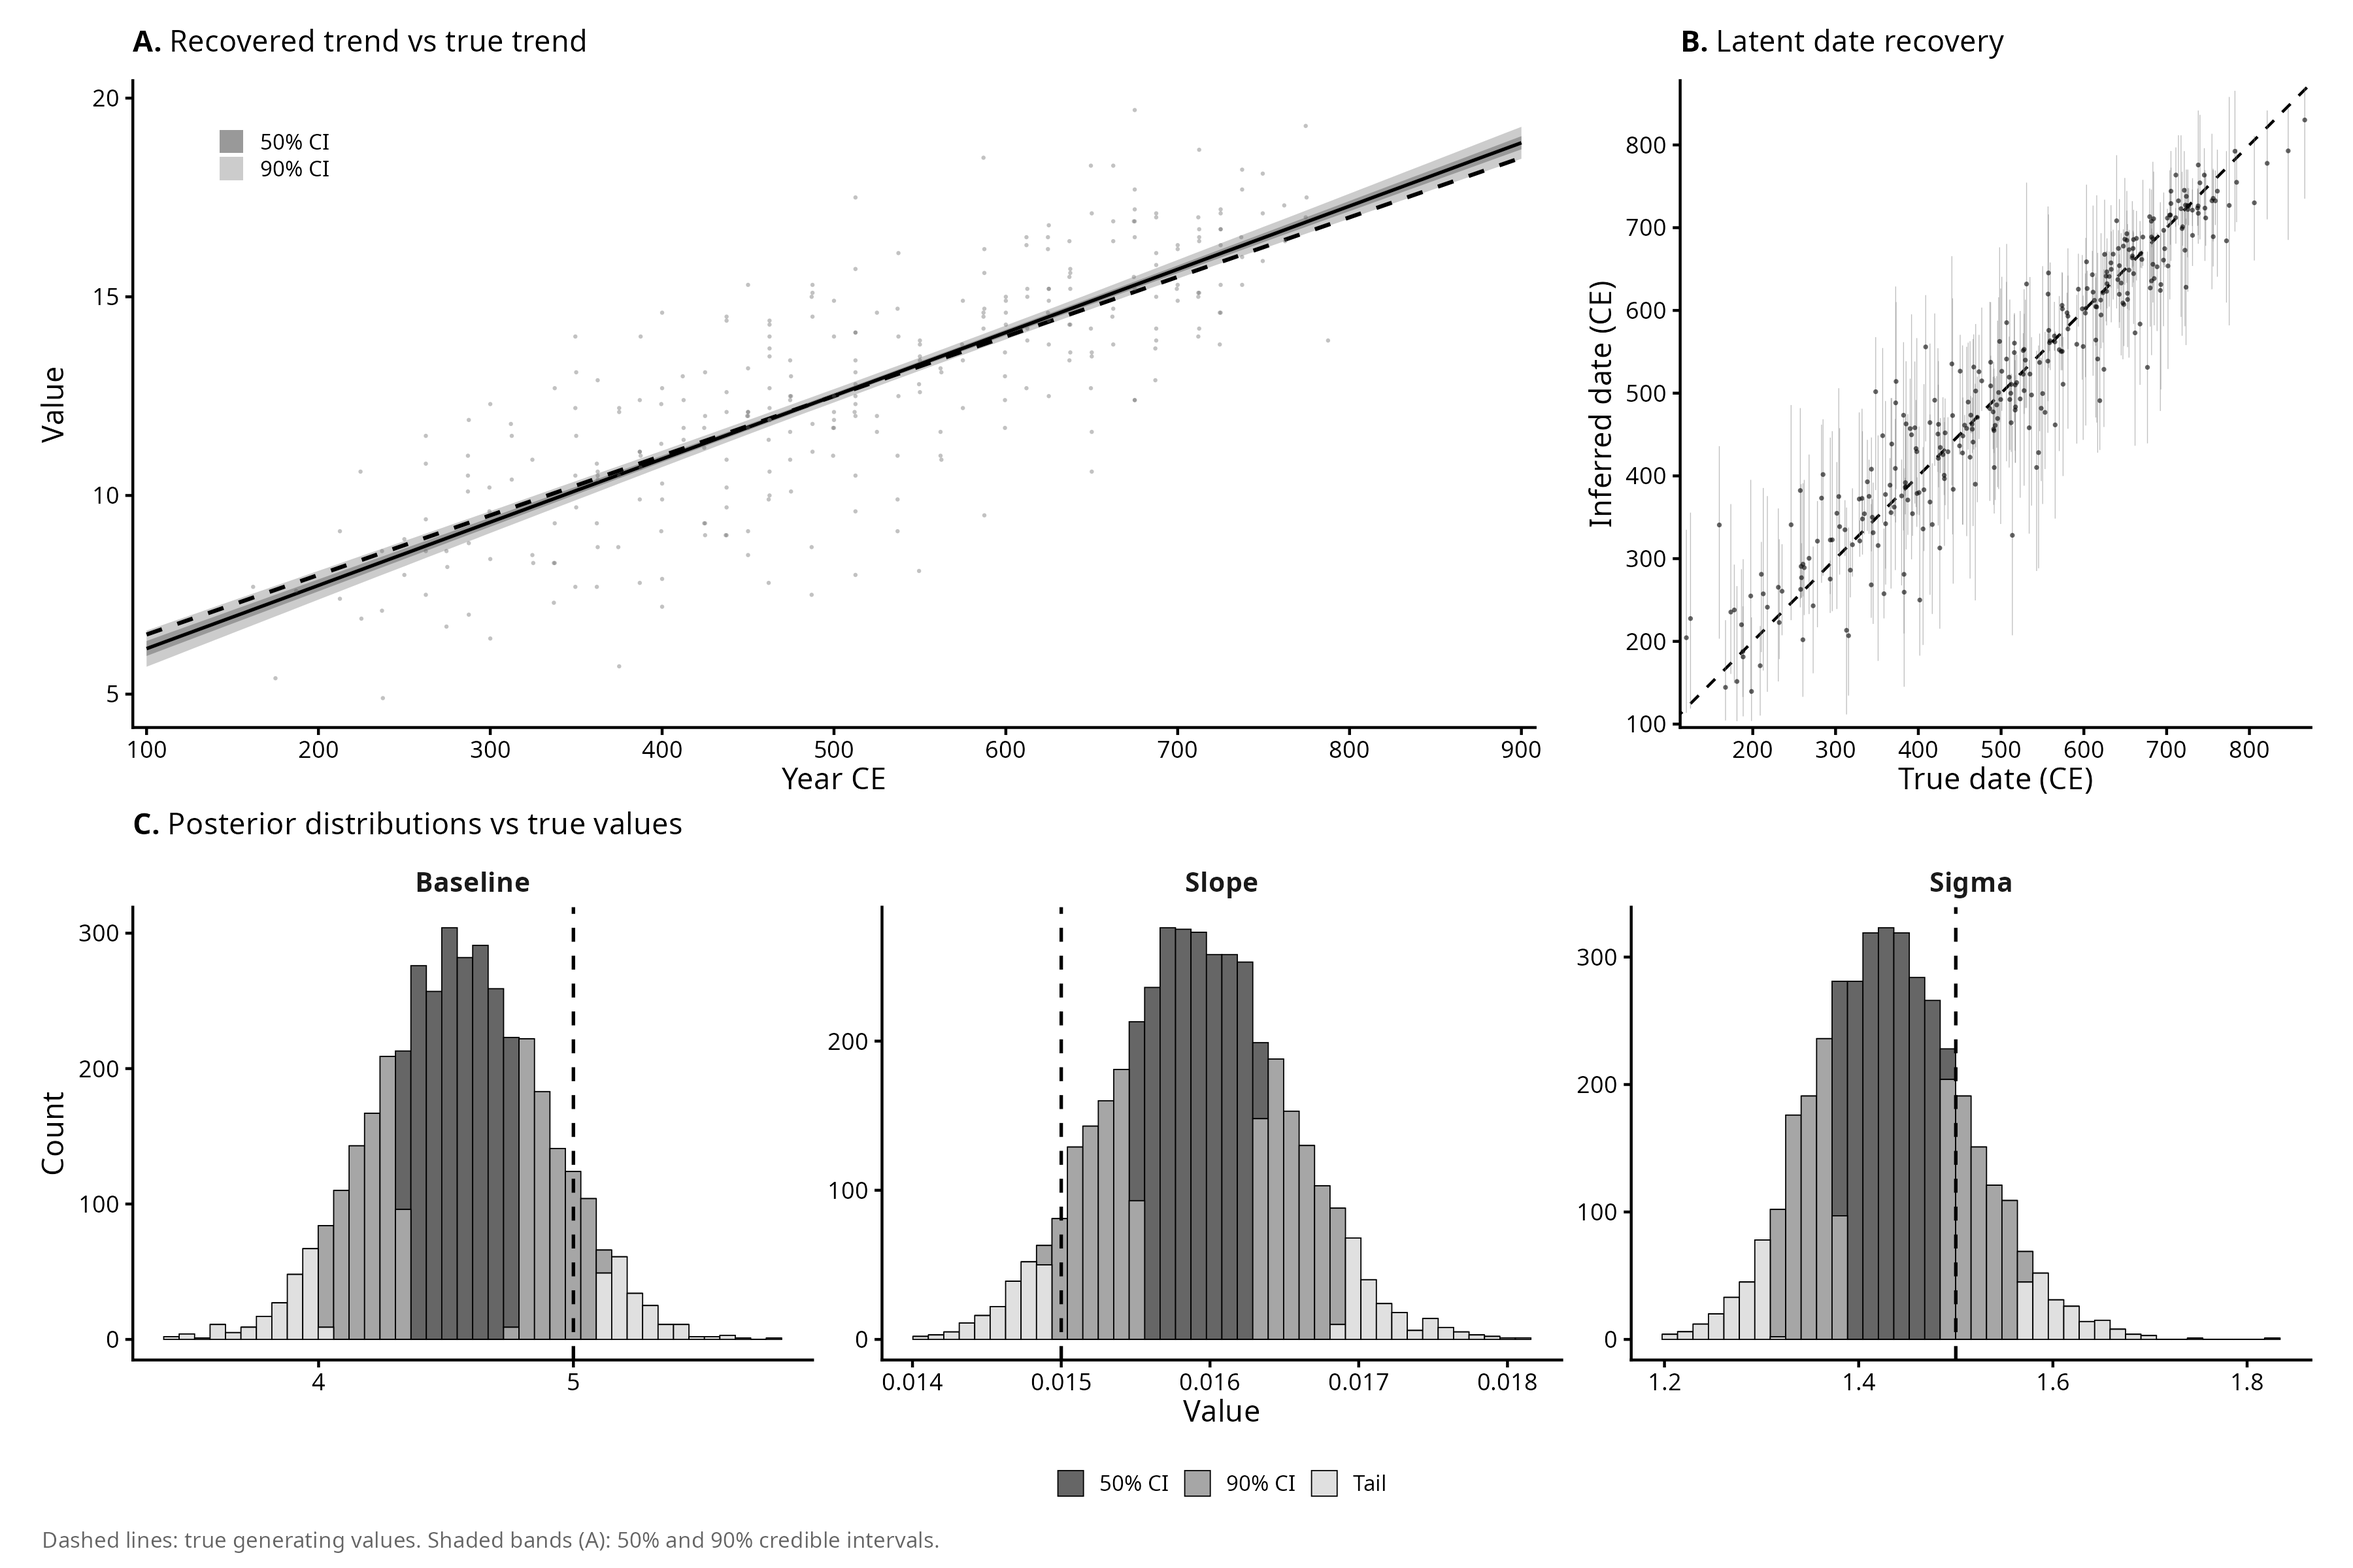
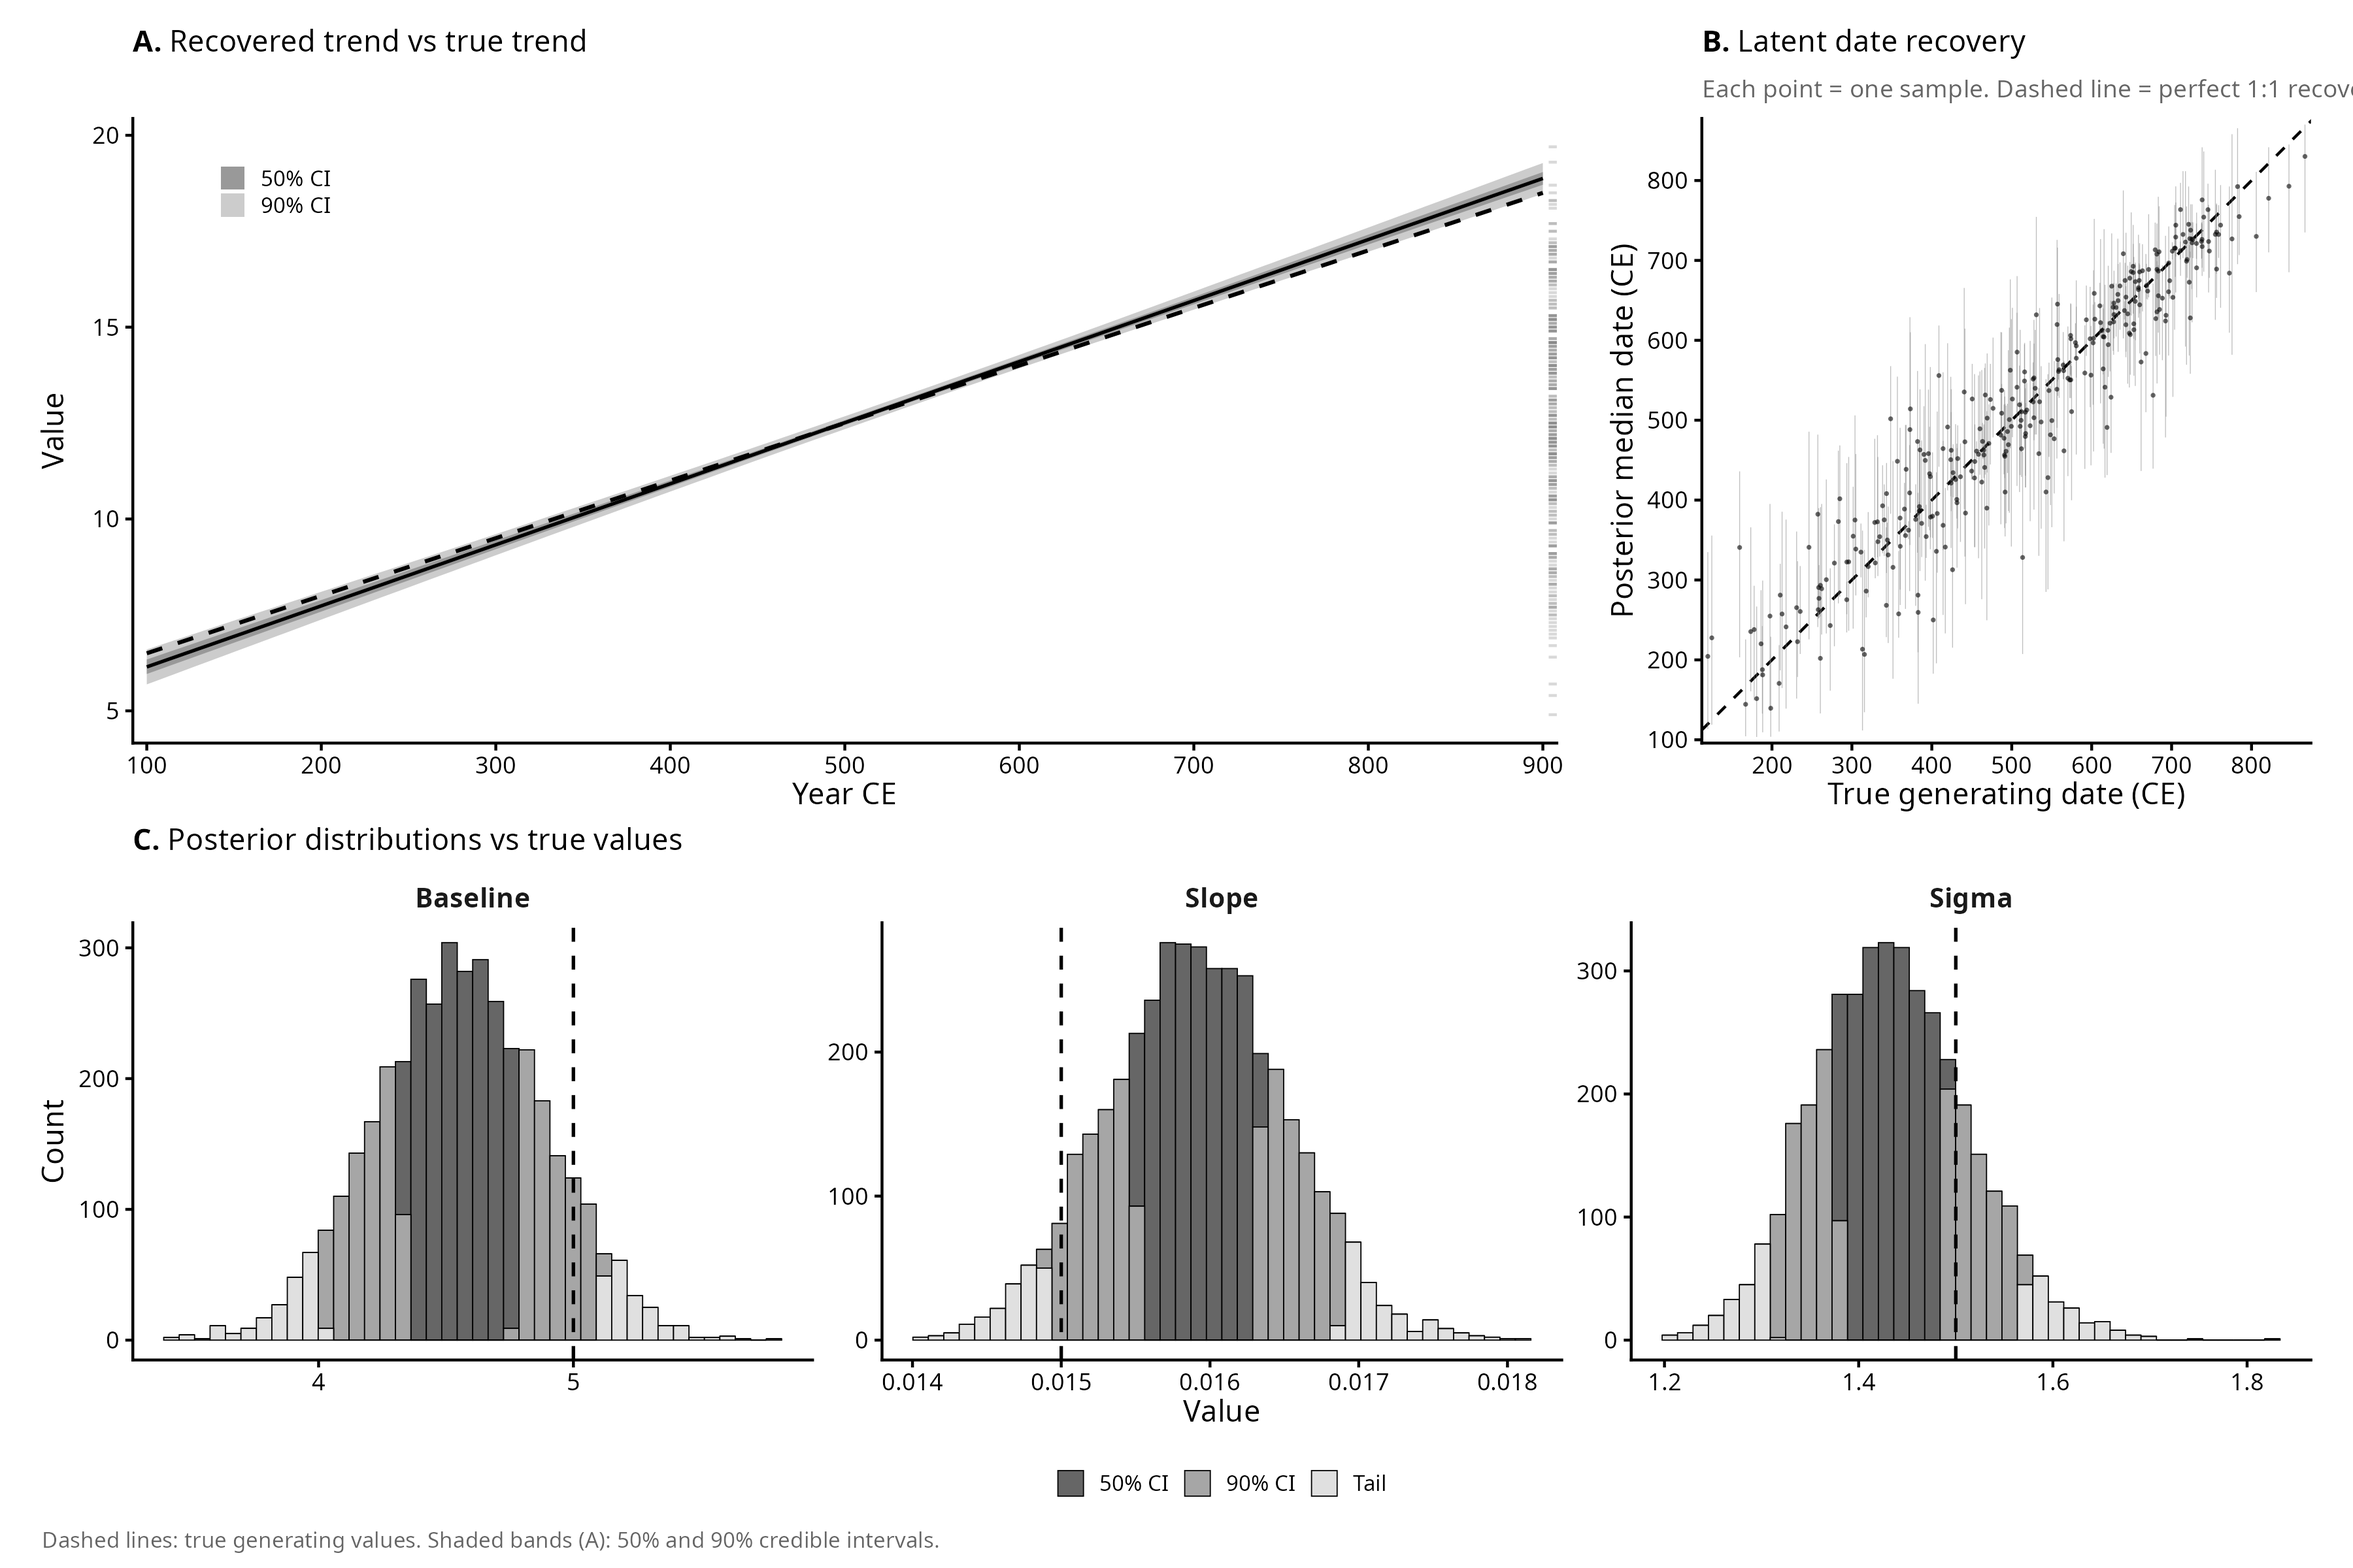
Fitted model trend not recovered

diff --git a/Simulations/Sim_Linear/README.md b/Simulations/Sim_Linear/README.md
@@ -24,7 +24,7 @@ trend(x) = alpha + beta * x
 y_n ~ Normal(trend(true_date_n), sigma)
 ```
 
-Panel **A** shows the recovered trend (median and 50%/90% credible intervals) against the true generating function. Panel **B** compares the inferred latent dates to the known true dates. Panel **C** shows posterior distributions for each generating parameter, with dashed lines marking the true values.
+Panel **A** shows the recovered trend (median and 50%/90% credible intervals) against the true generating function; the rug on the right margin shows the distribution of observed values. Panel **B** is a date recovery plot: each dot is one sample, with the true generating date on the x-axis and the posterior median date on the y-axis — if recovery were perfect, all points would sit on the dashed 1:1 line; vertical bars show the 90% CI. Panel **C** shows posterior distributions for each generating parameter, with graduated shading by credible interval and dashed lines marking the true values.
 
 <p align="center">
 <img src="figures/model_results_panel.png" height="700" text-align="center"/>
@@ -36,4 +36,14 @@ Per-sample diagnostic panels for a random subset of observations. The left panel
 
 <p align="center">
 <img src="figures/individual_date_posteriors.png" height="900" text-align="center"/>
+</p>
+
+## Model comparison: latent dates vs midpoint dates
+
+A second model uses the midpoint of each sample's `[Start_date, End_date]` window as a fixed date, with no latent date inference. This is the conventional approach — treating the midpoint as the "best guess" and ignoring date uncertainty.
+
+Panels **A–B** compare the trend recovery of the latent-date model and the midpoint model. Panel **C** overlays the posterior parameter distributions from both models: the midpoint model produces wider posteriors (especially for sigma) because unmodelled date uncertainty inflates the residual variance. Panel **D** shows the date recovery scatter from the latent model — the midpoint model has no equivalent, since it does not estimate dates.
+
+<p align="center">
+<img src="figures/model_comparison.png" height="800" text-align="center"/>
 </p>
